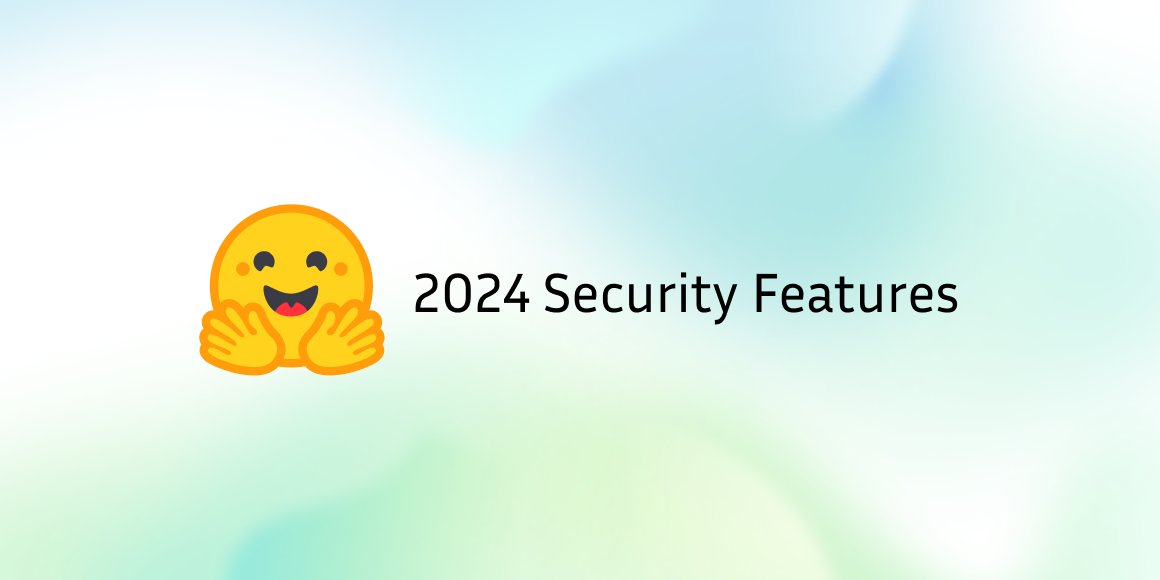
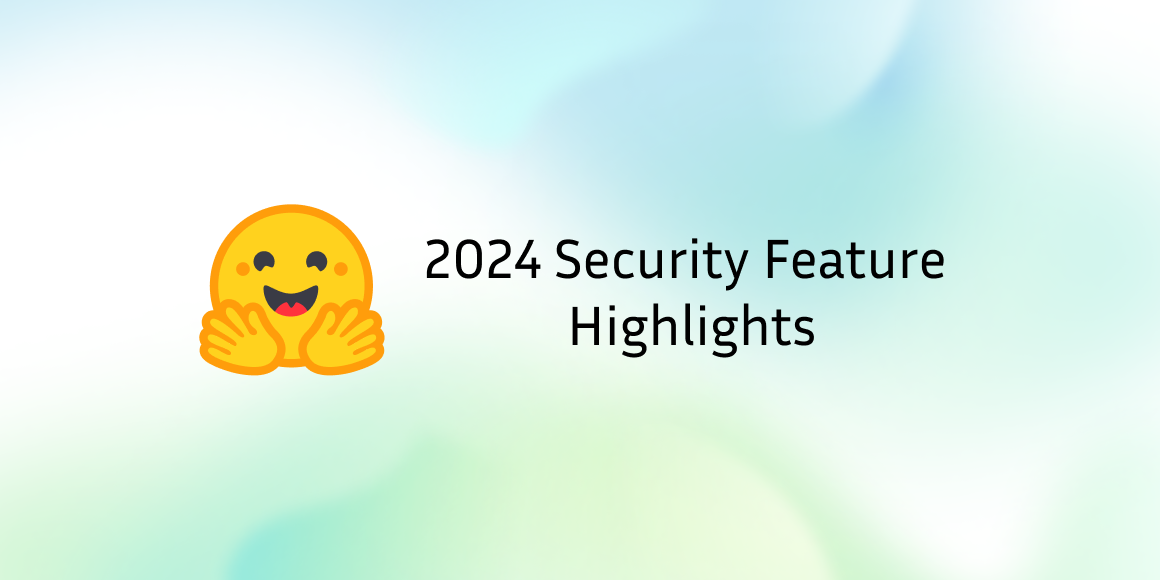
2024 security features (#2281)
* Update 2024-security-features.md

* Delete assets/2024-security-features/thumbnail.png

* Update _blog.yml

* Add files via upload

Changed region(s): [[0.3414, 0.4034, 0.8379, 0.6207]]

diff --git a/2024-security-features.md b/2024-security-features.md
@@ -62,7 +62,7 @@ In the event a malicious file is detected, the scans will place a notice on the 
 
 ![](https://huggingface.co/datasets/huggingface/documentation-images/resolve/main/blog/2024-security-features/security-scanning.png)
 
-For any secrets detected, the pipeline will send you an email notifying the owner so that they can invalidate and refresh the secret. You can learn more about automated scanning here: 
+For any secrets detected, the pipeline will send an email notifying the owner so that they can invalidate and refresh the secret. You can learn more about automated scanning here: 
 - https://huggingface.co/docs/hub/en/security-malware 
 - https://huggingface.co/docs/hub/en/security-pickle 
 - https://huggingface.co/docs/hub/en/security-secrets 
